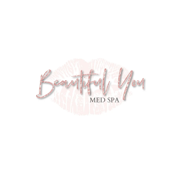
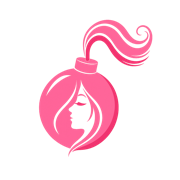
Polish customer-facing booking and brand assets

Changed region(s): [[0.1944, 0.0833, 0.8611, 0.8611]]

diff --git a/src/config/site.config.v1.ts b/src/config/site.config.v1.ts
@@ -1087,8 +1087,8 @@ Object.assign(siteConfig, {
     sectionIntro:
       'Bombshell Beauty Lab welcomes Scottsdale-area clients by appointment at Salon Studios on North Scottsdale Road.',
     studioDetails: [
-      'Google Business Profile lists the studio at 10201 N Scottsdale Rd, Scottsdale, AZ 85253.',
-      'Business hours are not published on GBP yet. Call [phone redacted] or use the website/social links to request an appointment.',
+      'Visit the studio at 10201 N Scottsdale Rd, Scottsdale, AZ 85253.',
+      'Appointments are scheduled directly with Lisa. Call [phone redacted] to request a visit.',
     ],
   },
   practiceSpotlight: {
@@ -1139,7 +1139,7 @@ Object.assign(siteConfig, {
     rating: 5.0,
     reviewCount: 3,
     license: {
-      number: 'GBP hair salon',
+      number: 'Scottsdale hair salon',
       label: 'Scottsdale hair salon',
     },
     insured: true,
@@ -1161,8 +1161,8 @@ Object.assign(siteConfig, {
       href: 'tel:[phone redacted]',
     },
     secondaryCta: {
-      label: 'Visit Current Website',
-      href: 'http://www.lisaturley.com/',
+      label: 'Services',
+      href: '/#services',
     },
     backgroundImage: '/images/logo.png',
     backgroundAlt: 'Bombshell Beauty Lab logo.',
@@ -1226,8 +1226,8 @@ siteConfig.owner = {
   fullName: 'Lisa Turley',
   credentials: 'Hairstylist',
   roleTitle: 'Founder & Stylist',
-  photoUrl: '/images/logo.png',
-  photoAlt: 'Bombshell Beauty Lab logo.',
+  photoUrl: '/images/lisa-turley.png',
+  photoAlt: 'Lisa Turley, founder and stylist at Bombshell Beauty Lab.',
   intro:
     'Old Town Scottsdale native, longtime hairstylist, and the creative force behind the Bombshell Beauty Lab rebrand.',
   bioParagraphs: [
@@ -1438,13 +1438,13 @@ siteConfig.testimonials = [
       'I\'m very thankful to have found Lisa and would highly recommend her!',
   },
   {
-    name: 'Facebook Reviews',
+    name: 'Julie Onan',
     city: 'Scottsdale, AZ',
     rating: 5,
-    date: '2026-06-26',
+    date: '2021-06-26',
     service: 'Hair Salon',
     quote:
-      'Lisa Turley Salon is also listed with a 4.8 out of 5 rating on Facebook.',
+      'Lisa and team are amazing. Always very professional, on schedule, and give you undivided attention. Lisa is dedicated to making sure your hair looks great, and maintained between visits with top of the line products and direction.',
   },
 ];
 
@@ -1457,12 +1457,12 @@ siteConfig.faq = [
   {
     question: 'Where is Bombshell Beauty Lab located?',
     answer:
-      'Google Business Profile lists the salon at 10201 N Scottsdale Rd, Scottsdale, AZ 85253.',
+      'Bombshell Beauty Lab is located at 10201 N Scottsdale Rd, Scottsdale, AZ 85253.',
   },
   {
     question: 'How do I book an appointment?',
     answer:
-      'Call [phone redacted] to request an appointment. GBP does not currently list public business hours, so visits should be treated as by appointment.',
+      'Call [phone redacted] to request an appointment with Lisa.',
   },
   {
     question: 'What services does Bombshell Beauty Lab offer?',
@@ -1478,7 +1478,7 @@ siteConfig.faq = [
 
 siteConfig.nav = [
   { label: 'Services', href: '/services/' },
-  { label: 'Lisa', href: '/#meet-bombshell' },
+  { label: 'Meet Lisa', href: '/#meet-bombshell' },
   { label: 'Reviews', href: '/#testimonials' },
   { label: 'Contact', href: '/contact/' },
 ];
@@ -1498,7 +1498,7 @@ siteConfig.footer = {
     {
       heading: 'Bombshell',
       links: [
-        { label: 'Lisa', href: '/#meet-bombshell' },
+        { label: 'Meet Lisa', href: '/#meet-bombshell' },
         { label: 'Reviews', href: '/#testimonials' },
         { label: 'Contact', href: '/contact/' },
       ],
@@ -1507,7 +1507,7 @@ siteConfig.footer = {
       heading: 'Book',
       links: [
         { label: 'Call to Book', href: 'tel:[phone redacted]' },
-        { label: 'Current Website', href: 'http://www.lisaturley.com/' },
+        { label: 'Services', href: '/#services' },
         { label: 'Privacy Policy', href: '/privacy/' },
         { label: 'Terms of Service', href: '/terms/' },
       ],
@@ -1826,7 +1826,7 @@ siteConfig.footer = {
     {
       heading: 'Bombshell',
       links: [
-        { label: 'Lisa', href: '/#meet-bombshell' },
+        { label: 'Meet Lisa', href: '/#meet-bombshell' },
         { label: 'Reviews', href: '/#testimonials' },
         { label: 'Contact', href: '/contact/' },
       ],
@@ -1835,7 +1835,7 @@ siteConfig.footer = {
       heading: 'Book',
       links: [
         { label: 'Call to Book', href: 'tel:[phone redacted]' },
-        { label: 'Current Website', href: 'http://www.lisaturley.com/' },
+        { label: 'Services', href: '/#services' },
         { label: 'Privacy Policy', href: '/privacy/' },
         { label: 'Terms of Service', href: '/terms/' },
       ],
@@ -1867,6 +1867,6 @@ siteConfig.faq = [
   {
     question: 'How do I book an appointment?',
     answer:
-      'Call [phone redacted] to request an appointment. GBP does not currently list public business hours, so visits should be treated as by appointment.',
+      'Call [phone redacted] to request an appointment with Lisa.',
   },
 ];